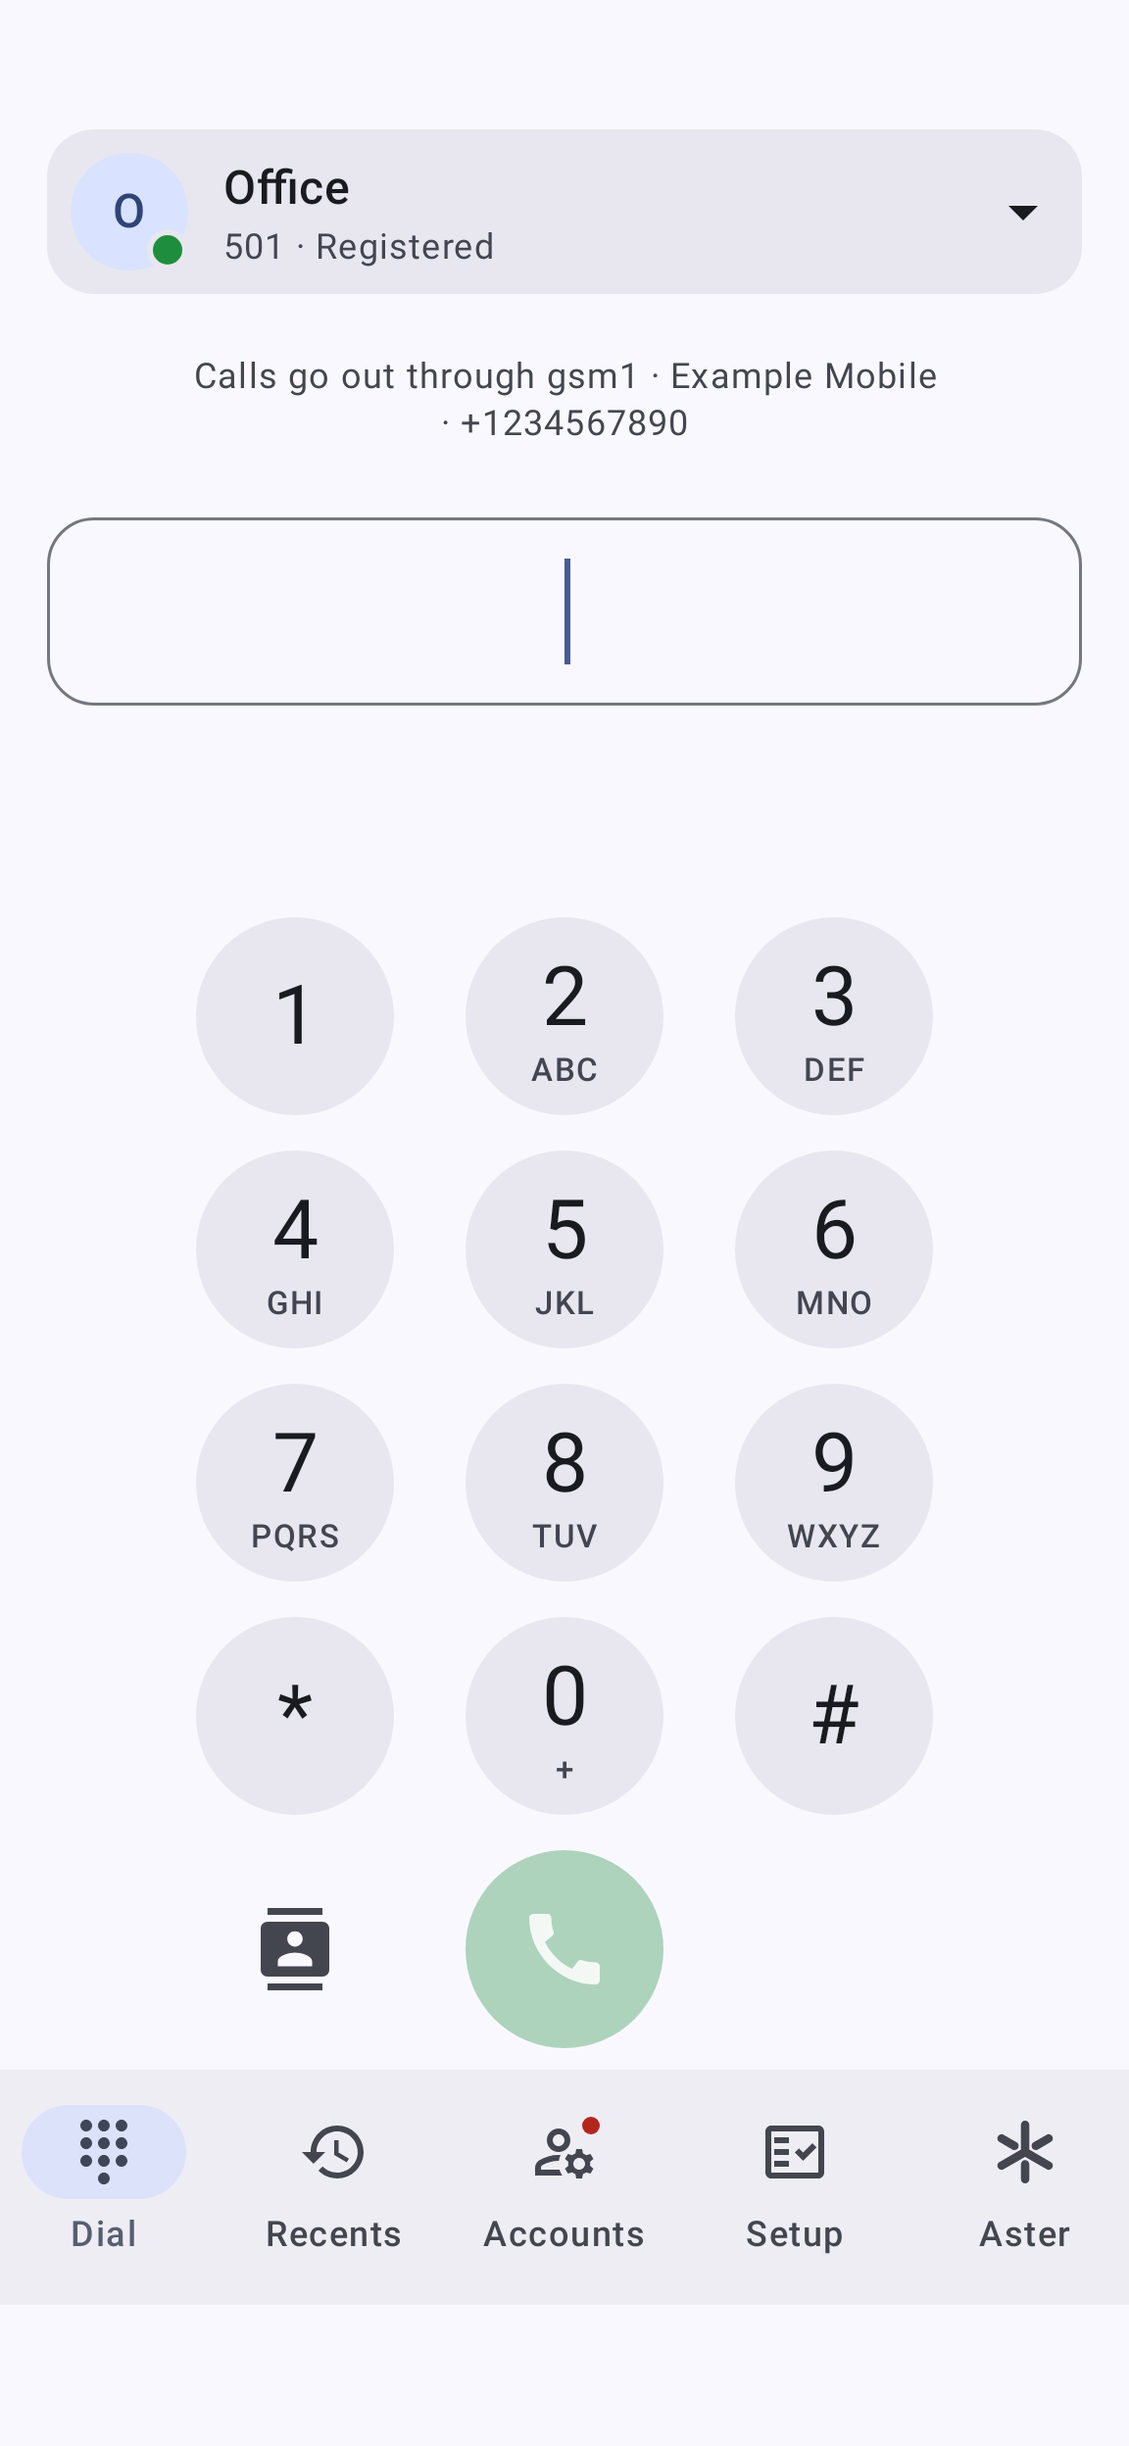
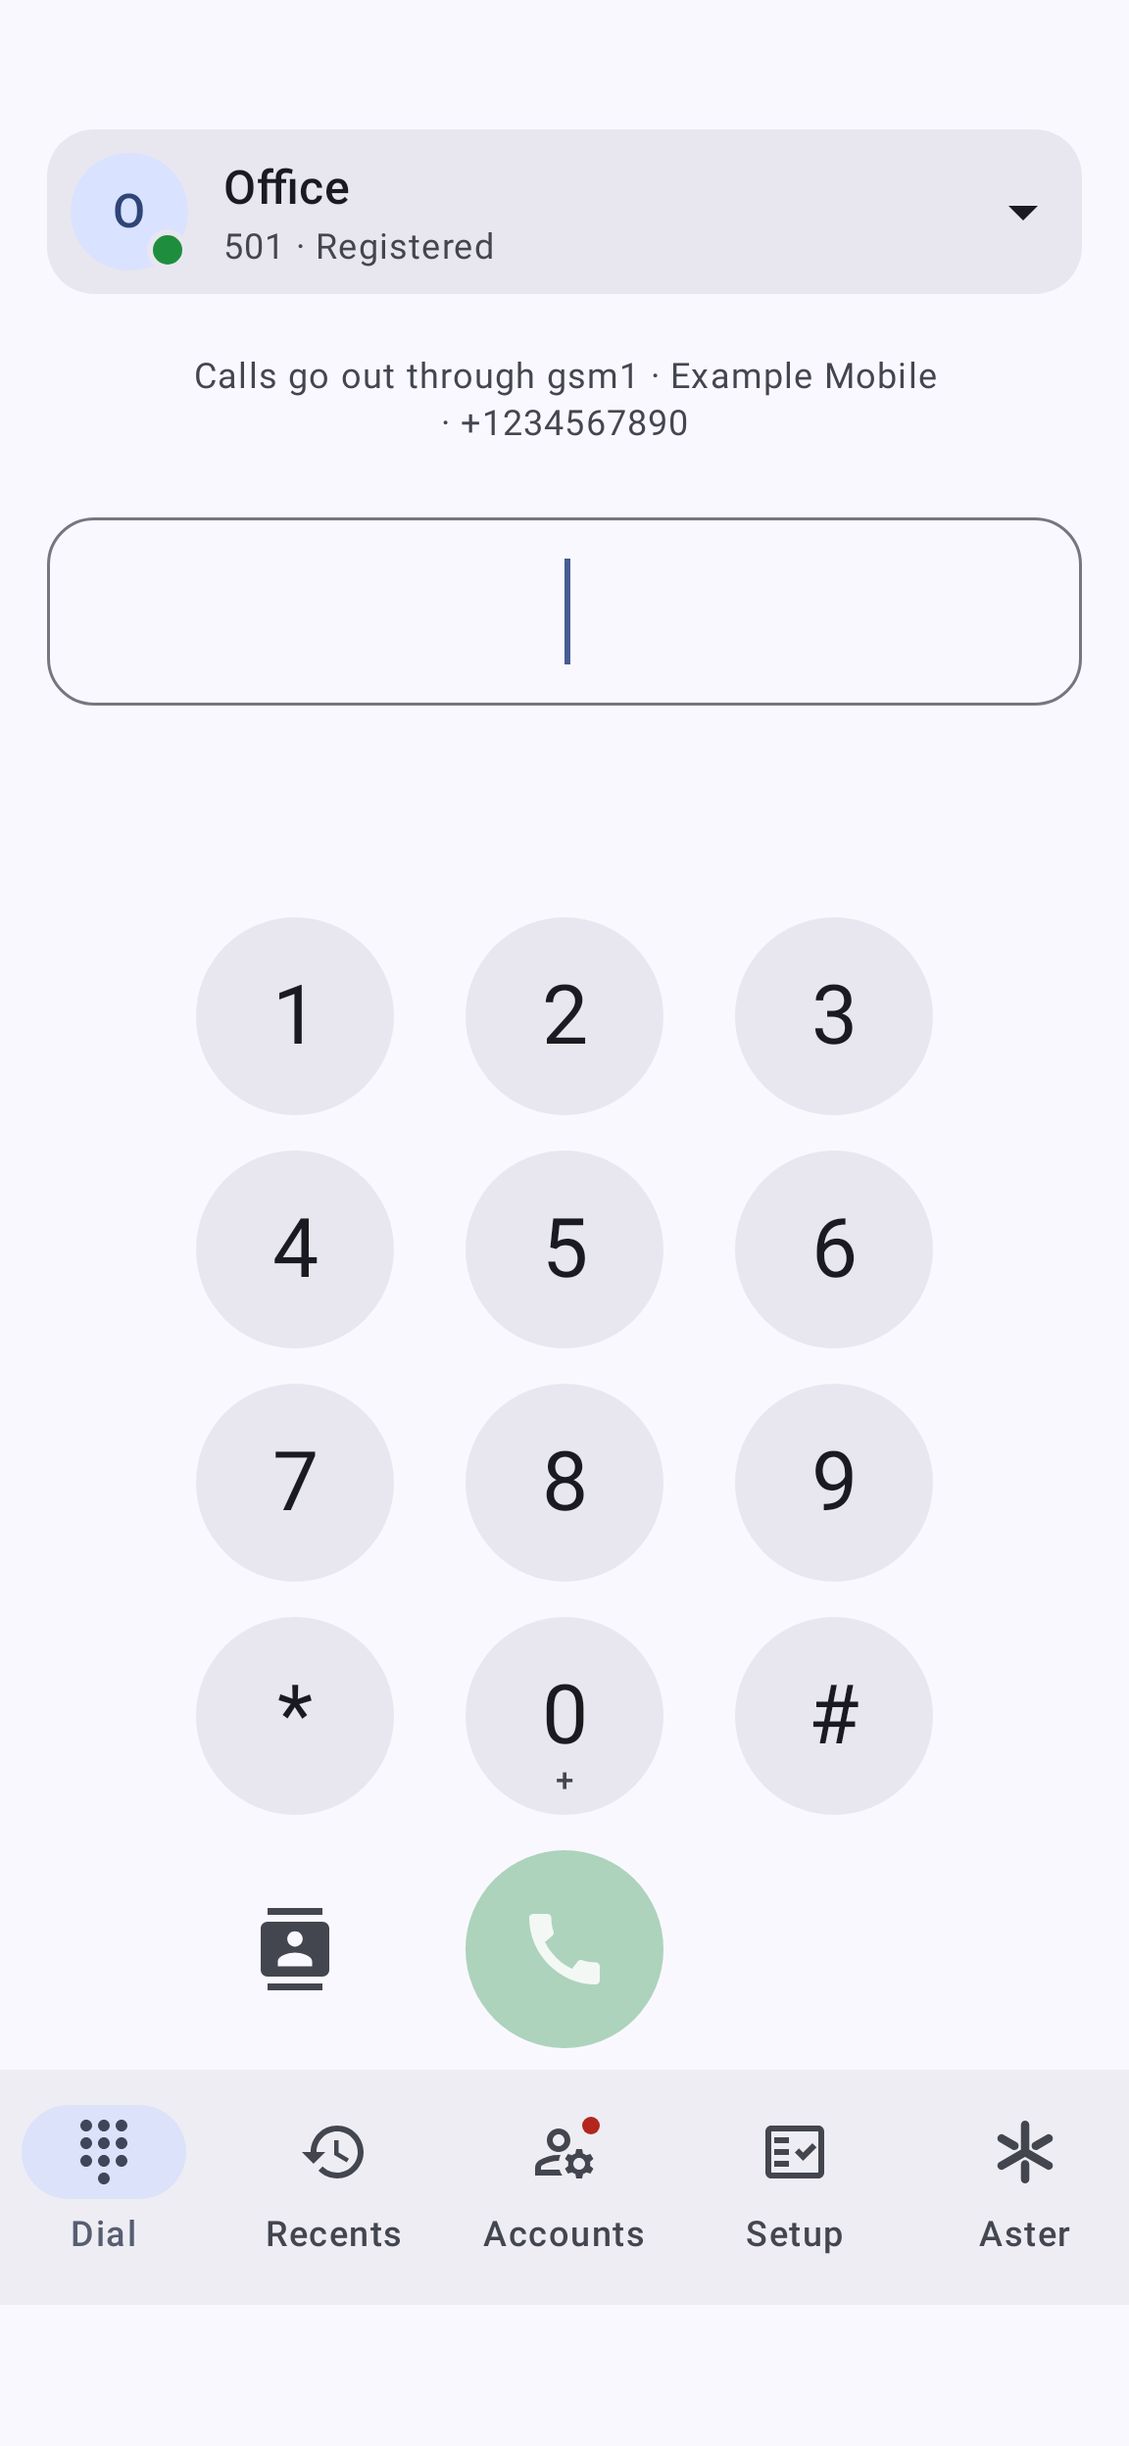
Suggest contacts by number only and drop the keypad letters
Typed digits now match only contacts whose number contains them: an exact
number first, then numbers that start with the digits, then the rest. Name
matching through keypad letters is removed with its helpers and the name
highlight. Keypad keys show the digit alone, centred; the dialer's 0 keeps
the small "+" near the bottom edge. Version 0.8.1.

diff --git a/app/src/main/java/app/asterphone/data/Contacts.kt b/app/src/main/java/app/asterphone/data/Contacts.kt
@@ -1,17 +1,14 @@
 package app.asterphone.data
 
-import java.text.Normalizer
-
 /** A phone number from the phone's contacts. [type] is its label, such as "Mobile". */
 data class PhoneContact(val name: String, val number: String, val type: String = "") {
     internal val digits: String = number.filter { it.isDigit() }
-    internal val keypadWords: List<Pair<Int, String>> = keypadWords(name)
 }
 
-/** A contact matching the typed digits. The ranges mark the matching characters of its name and number. */
-data class ContactMatch(val contact: PhoneContact, val nameRange: IntRange? = null, val numberRange: IntRange? = null)
+/** A contact matching the typed digits. [numberRange] marks the matching characters of its number. */
+data class ContactMatch(val contact: PhoneContact, val numberRange: IntRange? = null)
 
-/** The phone's contacts, searchable by number or by name on the keypad, and by caller number. */
+/** The phone's contacts, searchable by the digits of their number and by caller number. */
 class ContactDirectory(val contacts: List<PhoneContact>) {
     // Contacts by the last digits of their number, to find a caller without scanning every contact.
     private val byTail: Map<String, List<PhoneContact>> = contacts.groupBy { it.digits.takeLast(MIN_MATCH) }
@@ -24,8 +21,8 @@ class ContactDirectory(val contacts: List<PhoneContact>) {
     }
 
     /**
-     * Contacts whose number contains the digits of [typed], or with a word of the name that starts with them
-     * on the keypad. Number matches from the start come first, then name matches, then the rest.
+     * Contacts whose number contains the digits of [typed]: an exact number first, then numbers that start
+     * with the digits, then the rest.
      */
     fun search(typed: String): List<ContactMatch> {
         val query = typed.filter { it.isDigit() }
@@ -34,18 +31,13 @@ class ContactDirectory(val contacts: List<PhoneContact>) {
     }
 
     private fun rank(contact: PhoneContact, query: String): Pair<Int, ContactMatch>? {
-        val number = numberMatch(contact, query)
-        val name = contact.keypadWords.firstNotNullOfOrNull { (start, keys) ->
-            if (keys.startsWith(query)) start until start + query.length else null
-        }
-        if (number == null && name == null) return null
+        val number = numberMatch(contact, query) ?: return null
         val rank = when {
             contact.digits == query -> 0
-            number != null && number.atStart -> 1
-            name != null -> 2
-            else -> 3
+            number.atStart -> 1
+            else -> 2
         }
-        return rank to ContactMatch(contact, name, number?.let { contact.numberChars(it.from, it.length) })
+        return rank to ContactMatch(contact, contact.numberChars(number.from, number.length))
     }
 
     private class NumberHit(val from: Int, val length: Int, val atStart: Boolean)
@@ -94,39 +86,4 @@ class ContactDirectory(val contacts: List<PhoneContact>) {
 private fun PhoneContact.numberChars(from: Int, length: Int): IntRange {
     val positions = number.indices.filter { number[it].isDigit() }
     return positions[from]..positions[from + length - 1]
-}
-
-// The keypad digit of each letter: Latin as printed on phone keypads, and the Cyrillic layout used on phones
-// sold where Cyrillic script is used.
-private val KEYPAD: Map<Char, Char> = buildMap {
-    listOf("abc", "def", "ghi", "jkl", "mno", "pqrs", "tuv", "wxyz").forEachIndexed { i, letters ->
-        letters.forEach { put(it, '2' + i) }
-    }
-    listOf("абвгґ", "деёєжз", "иіїйкл", "мноп", "рстуў", "фхцч", "шщъы", "ьэюя").forEachIndexed { i, letters ->
-        letters.forEach { put(it, '2' + i) }
-    }
-}
-
-/** The digit typed for [c] on a phone keypad, or null for characters that have none. */
-internal fun keypadDigit(c: Char): Char? {
-    if (c.isDigit()) return c
-    val lower = c.lowercaseChar()
-    KEYPAD[lower]?.let { return it }
-    // Letters with accents are typed as their base letter.
-    val base = Normalizer.normalize(lower.toString(), Normalizer.Form.NFD).firstOrNull() ?: return null
-    return KEYPAD[base]
-}
-
-/** Each word of [name] with its start index and its keypad digits; a letter without a key stops the digits there. */
-private fun keypadWords(name: String): List<Pair<Int, String>> = buildList {
-    var start = -1
-    for (i in 0..name.length) {
-        val inWord = i < name.length && name[i].isLetterOrDigit()
-        if (inWord && start < 0) start = i
-        if (!inWord && start >= 0) {
-            val keys = name.substring(start, i).map { keypadDigit(it) }.takeWhile { it != null }.joinToString("")
-            if (keys.isNotEmpty()) add(start to keys)
-            start = -1
-        }
-    }
 }

diff --git a/app/src/main/java/app/asterphone/ui/Components.kt b/app/src/main/java/app/asterphone/ui/Components.kt
@@ -3,7 +3,6 @@ package app.asterphone.ui
 import android.icu.text.MeasureFormat
 import android.icu.util.Measure
 import android.icu.util.MeasureUnit
-import android.icu.util.ULocale
 import android.os.SystemClock
 import android.view.HapticFeedbackConstants
 import android.view.View
@@ -40,7 +39,6 @@ import androidx.compose.ui.Alignment
 import androidx.compose.ui.Modifier
 import androidx.compose.ui.draw.clip
 import androidx.compose.ui.graphics.Color
-import androidx.compose.ui.platform.LocalConfiguration
 import androidx.compose.ui.platform.LocalView
 import androidx.compose.ui.platform.testTag
 import androidx.compose.ui.res.painterResource
@@ -256,21 +254,9 @@ fun RoundToggle(label: String, @DrawableRes icon: Int, checked: Boolean, onToggl
 }
 
 private val KEYS = listOf("123", "456", "789", "*0#")
-private val LETTERS = mapOf(
-    '2' to "ABC", '3' to "DEF", '4' to "GHI", '5' to "JKL",
-    '6' to "MNO", '7' to "PQRS", '8' to "TUV", '9' to "WXYZ",
-)
-private val CYRILLIC_LETTERS = mapOf(
-    '2' to "АБВГ", '3' to "ДЕЖЗ", '4' to "ИЙКЛ", '5' to "МНОП",
-    '6' to "РСТУ", '7' to "ФХЦЧ", '8' to "ШЩЪЫ", '9' to "ЬЭЮЯ",
-)
-
 /** Phone keypad used by the dialer and for in-call tones. With [allowPlus], holding 0 types "+". */
 @Composable
 fun DialPad(onKey: (Char) -> Unit, modifier: Modifier = Modifier, allowPlus: Boolean = false, keySize: Dp = 72.dp) {
-    // Phones in Cyrillic-script languages print both alphabets; small keys have room for one line only.
-    val locale = LocalConfiguration.current.locales[0]
-    val cyrillic = remember(locale) { ULocale.addLikelySubtags(ULocale.forLocale(locale)).script == "Cyrl" } && keySize >= 64.dp
     val haptics = rememberHaptics()
     Column(modifier, verticalArrangement = Arrangement.spacedBy(keySize * 0.18f)) {
         for (row in KEYS) {
@@ -279,8 +265,7 @@ fun DialPad(onKey: (Char) -> Unit, modifier: Modifier = Modifier, allowPlus: Boo
                     val plus = allowPlus && key == '0'
                     DialKey(
                         key = key,
-                        letters = if (plus) "+" else LETTERS[key].orEmpty(),
-                        secondLetters = if (cyrillic) CYRILLIC_LETTERS[key].orEmpty() else "",
+                        label = if (plus) "+" else "",
                         size = keySize,
                         onClick = {
                             haptics.tap()
@@ -300,8 +285,7 @@ fun DialPad(onKey: (Char) -> Unit, modifier: Modifier = Modifier, allowPlus: Boo
 @Composable
 private fun DialKey(
     key: Char,
-    letters: String,
-    secondLetters: String,
+    label: String,
     size: Dp,
     onClick: () -> Unit,
     onLongClick: (() -> Unit)?,
@@ -316,16 +300,17 @@ private fun DialKey(
             .testTag("key-$key"),
         contentAlignment = Alignment.Center,
     ) {
-        Column(horizontalAlignment = Alignment.CenterHorizontally) {
-            val digitStyle = if (size >= 64.dp) MaterialTheme.typography.headlineMedium else MaterialTheme.typography.headlineSmall
-            Text(key.toString(), style = digitStyle, color = MaterialTheme.colorScheme.onSurface)
-            val letterStyle = MaterialTheme.typography.labelSmall.let { it.copy(lineHeight = it.fontSize * 1.1f) }
-            if (letters.isNotEmpty()) {
-                Text(letters, style = letterStyle, color = MaterialTheme.colorScheme.onSurfaceVariant)
-            }
-            if (secondLetters.isNotEmpty()) {
-                Text(secondLetters, style = letterStyle, color = MaterialTheme.colorScheme.onSurfaceVariant)
-            }
+        val digitStyle = if (size >= 64.dp) MaterialTheme.typography.headlineMedium else MaterialTheme.typography.headlineSmall
+        Text(key.toString(), style = digitStyle, color = MaterialTheme.colorScheme.onSurface)
+        // The label sits near the bottom edge so the digit stays in the middle, as on keys without one.
+        if (label.isNotEmpty()) {
+            val labelStyle = MaterialTheme.typography.labelSmall.let { it.copy(lineHeight = it.fontSize * 1.1f) }
+            Text(
+                label,
+                style = labelStyle,
+                color = MaterialTheme.colorScheme.onSurfaceVariant,
+                modifier = Modifier.align(Alignment.BottomCenter).padding(bottom = size * 0.08f),
+            )
         }
     }
 }

diff --git a/app/src/test/java/app/asterphone/ui/DialerScreenTest.kt b/app/src/test/java/app/asterphone/ui/DialerScreenTest.kt
@@ -6,12 +6,14 @@ import androidx.compose.runtime.mutableStateOf
 import androidx.compose.runtime.remember
 import androidx.compose.runtime.setValue
 import androidx.compose.ui.semantics.SemanticsActions
+import androidx.compose.ui.semantics.SemanticsProperties
 import androidx.compose.ui.test.SemanticsMatcher
 import androidx.compose.ui.test.assert
 import androidx.compose.ui.test.assertIsEnabled
 import androidx.compose.ui.test.assertIsNotEnabled
 import androidx.compose.ui.test.assertIsNotSelected
 import androidx.compose.ui.test.assertIsSelected
+import androidx.compose.ui.test.hasParent
 import androidx.compose.ui.test.hasTestTag
 import androidx.compose.ui.test.hasText
 import androidx.compose.ui.test.junit4.v2.createComposeRule
@@ -301,10 +303,35 @@ class DialerScreenTest {
     }
 
     @Test
-    fun keypadLettersFindContactsByName() {
-        show(contacts = Samples.contacts)
+    fun contactsAreSuggestedByNumberOnly() {
+        show(contacts = ContactDirectory(listOf(PhoneContact("Bob Jones", "+1 555 0100"))))
+        // 5663 spells "Jone" on keypad letters but is not in the number.
         press("5663")
+        compose.onNodeWithTag("suggestion").assertDoesNotExist()
+        compose.onNodeWithContentDescription("Delete").performTouchInput { longClick() }
+        press("0100")
         compose.onNodeWithTag("suggestion").assert(hasText("Bob Jones", substring = true))
+        val number = compose.onNodeWithTag("suggestion").fetchSemanticsNode().config[SemanticsProperties.Text]
+            .first { it.text.startsWith("+1 555 0100") }
+        assertEquals(listOf("0100"), number.spanStyles.map { number.text.substring(it.start, it.end) })
+    }
+
+    @Test
+    fun keysShowDigitsAndPlusOnly() {
+        show()
+        listOf("ABC", "WXYZ", "АБВГ").forEach { compose.onNodeWithText(it, substring = true).assertDoesNotExist() }
+        compose.onNodeWithText("+").assertExists()
+    }
+
+    @Test
+    fun digitsSitInTheMiddleOfTheirKeys() {
+        show()
+        for (key in "1250#") {
+            val box = compose.onNodeWithTag("key-$key").fetchSemanticsNode().boundsInRoot
+            val digit = compose.onNode(hasText("$key") and hasParent(hasTestTag("key-$key")), useUnmergedTree = true)
+                .fetchSemanticsNode().boundsInRoot
+            assertTrue("key $key", kotlin.math.abs(digit.center.y - box.center.y) < 1f)
+        }
     }
 
     @Test

diff --git a/app/src/main/java/app/asterphone/ui/ContactViews.kt b/app/src/main/java/app/asterphone/ui/ContactViews.kt
@@ -67,7 +67,7 @@ fun ContactSuggestion(match: ContactMatch, more: Int, onPick: () -> Unit, onMore
             Avatar(match.contact.name, 40.dp)
             Spacer(Modifier.width(12.dp))
             Column(Modifier.weight(1f)) {
-                Text(name(match), style = MaterialTheme.typography.bodyLarge, maxLines = 1, overflow = TextOverflow.Ellipsis)
+                Text(match.contact.name, style = MaterialTheme.typography.bodyLarge, maxLines = 1, overflow = TextOverflow.Ellipsis)
                 Text(
                     numberLine(match),
                     style = MaterialTheme.typography.bodyMedium,
@@ -121,7 +121,7 @@ fun ContactMatchesSheet(matches: List<ContactMatch>, onPick: (PhoneContact) -> U
                         .testTag("contact-$index"),
                     colors = transparent,
                     leadingContent = { Avatar(match.contact.name, 40.dp) },
-                    headlineContent = { Text(name(match), maxLines = 1, overflow = TextOverflow.Ellipsis) },
+                    headlineContent = { Text(match.contact.name, maxLines = 1, overflow = TextOverflow.Ellipsis) },
                     supportingContent = { Text(numberLine(match), maxLines = 1, overflow = TextOverflow.Ellipsis) },
                 )
             }
@@ -131,9 +131,6 @@ fun ContactMatchesSheet(matches: List<ContactMatch>, onPick: (PhoneContact) -> U
 
 @Composable
 private fun highlight() = SpanStyle(color = MaterialTheme.colorScheme.primary, fontWeight = FontWeight.Bold)
-
-@Composable
-private fun name(match: ContactMatch): AnnotatedString = highlighted(match.contact.name, match.nameRange, highlight())
 
 /** "+1 234… · Mobile", with the typed digits picked out; the label comes last so a long line cuts it, not the digits. */
 @Composable

diff --git a/app/src/test/java/app/asterphone/data/ContactsTest.kt b/app/src/test/java/app/asterphone/data/ContactsTest.kt
@@ -39,21 +39,19 @@ class ContactsTest {
     }
 
     @Test
-    fun namesMatchOnTheKeypadFromTheStartOfAnyWord() {
-        // J-O-N-E = 5-6-6-3
-        val match = directory.search("5663").single()
-        assertEquals("Bob Jones", match.contact.name)
-        assertEquals(4..7, match.nameRange)
-        assertNull(match.numberRange)
-        assertEquals(listOf("Alice Smith"), names("76484"))
+    fun digitsSpellingANameOnTheKeypadFindNothing() {
+        // J-O-N-E = 5-6-6-3, A-L-I-C-E = 2-5-4-2-3; neither number contains these digits.
+        assertTrue(directory.search("5663").isEmpty())
+        assertTrue(directory.search("25423").isEmpty())
     }
 
     @Test
-    fun accentsAndCyrillicLettersHaveKeys() {
-        val contacts = ContactDirectory(listOf(PhoneContact("José", "+1234567890"), PhoneContact("Анна", "+1234567891")))
-        assertEquals(listOf("José"), contacts.search("5673").map { it.contact.name })
-        // А-Н-Н-А = 2-5-5-2
-        assertEquals(listOf("Анна"), contacts.search("2552").map { it.contact.name })
+    fun anExactNumberComesFirstThenTheStartThenTheMiddle() {
+        val middle = PhoneContact("Middle", "+1 555 0100")
+        val start = PhoneContact("Start", "0100 2345")
+        val exact = PhoneContact("Exact", "01 00")
+        val contacts = ContactDirectory(listOf(middle, start, exact))
+        assertEquals(listOf("Exact", "Start", "Middle"), contacts.search("0100").map { it.contact.name })
     }
 
     @Test

diff --git a/app/src/test/java/app/asterphone/call/CallScreenTest.kt b/app/src/test/java/app/asterphone/call/CallScreenTest.kt
@@ -6,6 +6,9 @@ import androidx.compose.ui.test.assertCountEquals
 import androidx.compose.ui.test.assertIsOn
 import androidx.compose.ui.test.junit4.v2.createComposeRule
 import androidx.compose.ui.test.longClick
+import androidx.compose.ui.test.assertAll
+import androidx.compose.ui.test.hasText
+import androidx.compose.ui.test.onChildren
 import androidx.compose.ui.test.onAllNodesWithText
 import androidx.compose.ui.test.onNodeWithContentDescription
 import androidx.compose.ui.test.onNodeWithTag
@@ -84,6 +87,8 @@ class CallScreenTest {
         compose.onNodeWithTag("key-0").performTouchInput { longClick() }
         assertEquals(listOf("dtmf=1", "dtmf=2", "dtmf=#", "dtmf=0"), events)
         compose.onNodeWithText("12#0").assertExists()
+        listOf("ABC", "WXYZ").forEach { compose.onNodeWithText(it, substring = true).assertDoesNotExist() }
+        compose.onNodeWithTag("key-0", useUnmergedTree = true).onChildren().assertAll(hasText("0"))
     }
 
     @Test

diff --git a/README.md b/README.md
@@ -49,7 +49,7 @@ SIP softphone.
 - Calls are registered with Android's Telecom service: answering a mobile call puts the SIP call on hold,
   and Bluetooth headsets, watches and cars can answer or end it
 - Names from the phone's contacts on calls, notifications and call history. While a number is typed, the
-  dialer suggests matching contacts by number or by name spelled on the keypad letters; the Contacts button
+  dialer suggests contacts whose number contains the typed digits; the Contacts button
   next to Call opens the phone's contact picker. Contacts are read on the phone only and never sent anywhere
 - Call history: tapping an entry puts its number in the dialer, with the account it used when that is still on;
   the phone icon calls back at once through the same account
